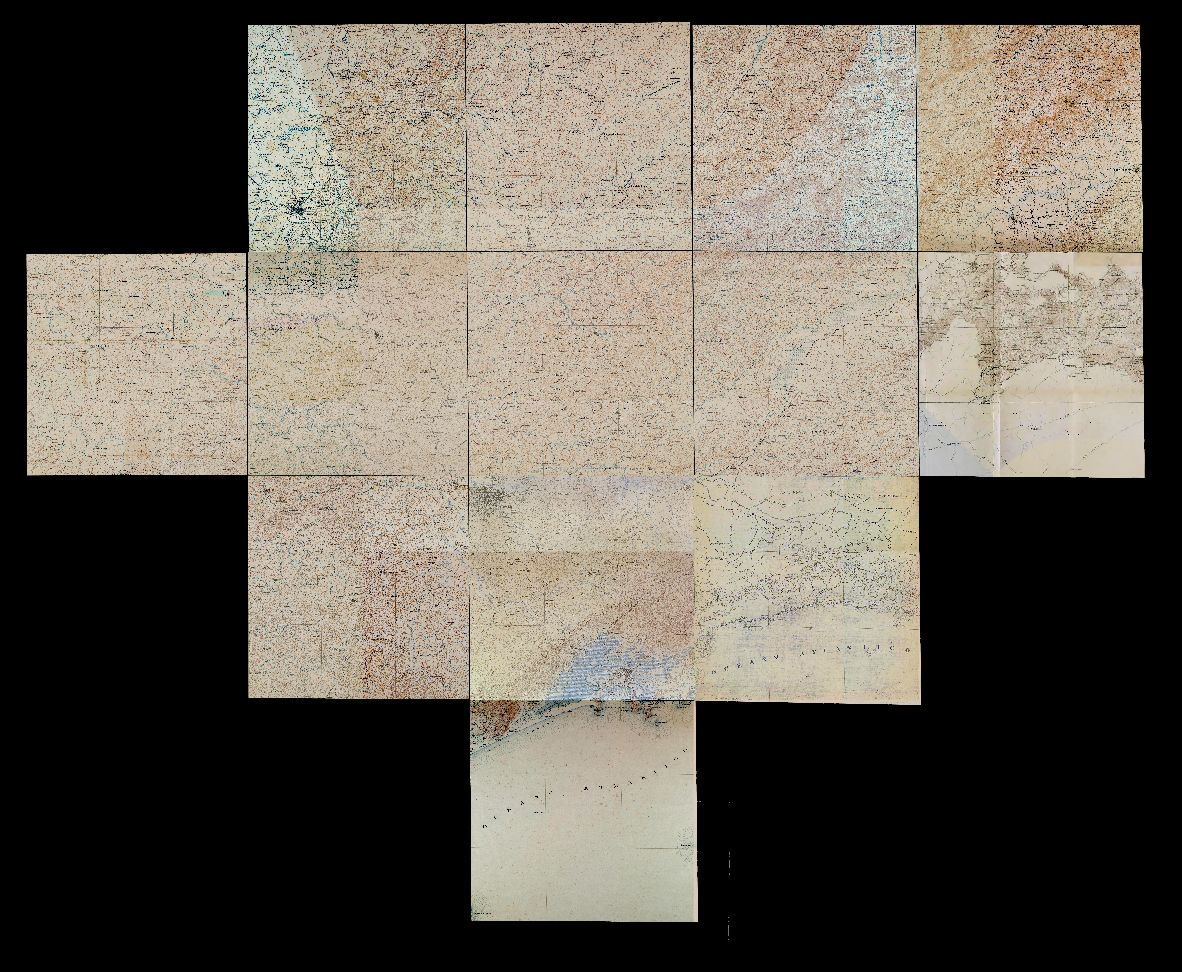
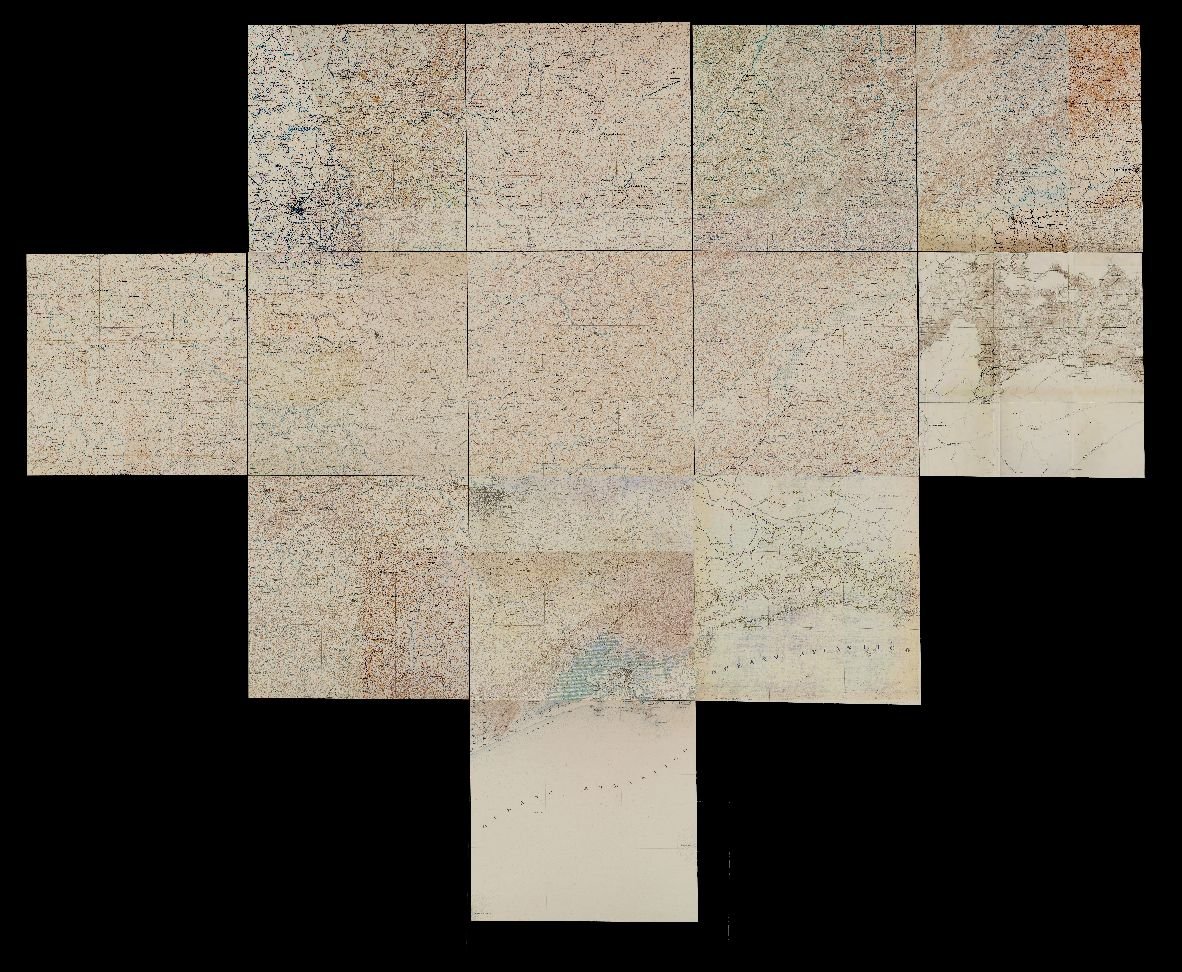
Uniformização das folhas: papel ancorado, grade que se ajusta às bordas, corte de realces
- O papel (p90) de cada região vai exatamente para o papel mediano do
  mosaico; o ganho de contraste é limitado (0,6–1,8) e vira só um
  deslocamento em folhas sem tinta mensurável — esticar amplificava manchas.
- Regiões escuras: no SARA (células reais da grade) recebem seu próprio
  deslocamento; no IGC (hachuras densas, legendas) herdam a folha ao redor.
- A grade do SARA agora se ajusta localmente: cada linha vai para o degrau
  de tom mais forte a ±14 px (só quando ele se destaca da textura da faixa),
  fechando o degrau entre faixas vizinhas — as folhas são coladas com
  pequenos deslocamentos.
- Passe final de corte de realces: manchas ainda mais claras que o alvo
  (pedaços colados com borda diagonal, p.ex. Campinas no IGC) descem para o
  papel alvo por um percentil local de ~1 km; áreas mais escuras ficam.

diff --git a/scripts/uniformize_sheets.py b/scripts/uniformize_sheets.py
@@ -30,6 +30,7 @@ from scipy import ndimage
 ROOT = Path(__file__).resolve().parent.parent
 MAPS = ROOT / "maps"
 SCALE = 8            # analysis is done on a 1/8 overview
+HILITE_WIN = 9       # highlight-clip window at 1/8 scale (~1 km on both maps)
 BLOCK = 512          # rows per output block
 
 SETS = {
@@ -37,10 +38,10 @@ SETS = {
     # measured on the source: pitch and phase of the column/row edges)
     "sara1930": {"src": "sara1930.tif", "nodata": "white",
                  "lattice": (299.2, 108.7, 275.7, 115.9), "feather": 2,
-                 "warp4326": False},
+                 "warp4326": False, "dark": "offset"},
     # IGC: 0 = nodata; irregular patchwork → segment by tone steps and gaps
     "igc": {"src": "folhas-rmsp.tif", "nodata": "zero", "lattice": None,
-            "feather": 1, "warp4326": True},
+            "feather": 1, "warp4326": True, "dark": "inherit"},
 }
 
 
@@ -79,22 +80,59 @@ def detected_walls(lum, valid, thr=4.0):
     return walls
 
 
-def lattice_walls(shape, lattice):
-    H, W = shape
+def lattice_walls(lum, valid, lattice, tol=14, thr=6.0):
+    """Walls on the sheet lattice, SNAPPED locally: sheets are pasted with
+    small offsets, so within each cell band the wall moves to the strongest
+    tone step found within ±tol px of the nominal line (else stays on it).
+    A short connector closes the step between neighbouring bands."""
+    H, W = lum.shape
     px, phx, py, phy = [v / SCALE for v in lattice]
+    xs = sorted({int(round(x)) for x in np.arange(phx, W, px) if 0 < round(x) < W})
+    ys = sorted({int(round(y)) for y in np.arange(phy, H, py) if 0 < round(y) < H})
+    xe = [0] + xs + [W]
+    ye = [0] + ys + [H]
     walls = np.zeros((H, W), bool)
-    x = phx
-    while x < W:
-        walls[:, int(round(x))] = True
-        x += px
-    y = phy
-    while y < H:
-        walls[int(round(y)), :] = True
-        y += py
+    vv = valid.astype(np.float32)
+    dr = np.abs(np.diff(lum, axis=0)) * (vv[:-1] * vv[1:])      # step r→r+1
+    dc = np.abs(np.diff(lum, axis=1)) * (vv[:, :-1] * vv[:, 1:])  # step c→c+1
+    cr = vv[:-1] * vv[1:]
+    cc = vv[:, :-1] * vv[:, 1:]
+
+    for y0 in ys:                                   # horizontal walls
+        r0, r1 = max(0, y0 - tol), min(H - 1, y0 + tol)
+        prof = np.add.reduceat(dr[r0:r1], xe[:-1], axis=1)
+        cnt = np.add.reduceat(cr[r0:r1], xe[:-1], axis=1)
+        prof = np.where(cnt > 0, prof / np.maximum(cnt, 1), 0)
+        best, val = prof.argmax(axis=0), prof.max(axis=0)
+        # a real sheet edge stands well above the band's own texture;
+        # otherwise (uniform sheet, plain noise) the wall stays on the lattice
+        snap = (val > thr) & (val > 2.5 * np.median(prof, axis=0))
+        prev = None
+        for j in range(len(xe) - 1):
+            y = r0 + int(best[j]) + 1 if snap[j] else y0
+            walls[y, xe[j]:xe[j + 1]] = True
+            if prev is not None and prev != y:
+                walls[min(prev, y):max(prev, y) + 1, xe[j]] = True
+            prev = y
+    for x0 in xs:                                   # vertical walls
+        c0, c1 = max(0, x0 - tol), min(W - 1, x0 + tol)
+        prof = np.add.reduceat(dc[:, c0:c1], ye[:-1], axis=0)
+        cnt = np.add.reduceat(cc[:, c0:c1], ye[:-1], axis=0)
+        prof = np.where(cnt > 0, prof / np.maximum(cnt, 1), 0)
+        best, val = prof.argmax(axis=1), prof.max(axis=1)
+        snap = (val > thr) & (val > 2.5 * np.median(prof, axis=1))
+        prev = None
+        for i in range(len(ye) - 1):
+            x = c0 + int(best[i]) + 1 if snap[i] else x0
+            walls[ye[i]:ye[i + 1], x] = True
+            if prev is not None and prev != x:
+                walls[ye[i], min(prev, x):max(prev, x) + 1] = True
+            prev = x
     return walls
 
 
-def region_params(rgb, valid, labels, nlab, lo_p=3, hi_p=90, min_px=150):
+def region_params(rgb, valid, labels, nlab, dark="inherit", lo_p=3, hi_p=90,
+                  min_px=40):
     """Per-region linear map (A, B) per channel: ink→target ink, paper→target
     paper. Regions with too few pixels get no params (NaN) and later inherit
     the nearest region's."""
@@ -112,29 +150,39 @@ def region_params(rgb, valid, labels, nlab, lo_p=3, hi_p=90, min_px=150):
         px = rgb[:, sl[0], sl[1]][:, m]              # (3, n)
         ink = np.percentile(px, lo_p, axis=1)
         paper = np.percentile(px, hi_p, axis=1)
-        # not a paper-and-ink sheet (legend strips, colour keys, title
-        # blocks): no bright paper or almost no dynamic range → inherit the
-        # neighbours' correction instead of a wild stretch
-        if paper.mean() < 90 or (paper - ink).mean() < 30:
+        # no bright paper at all. On a sheet lattice (SARA) that is a dark
+        # scan of a real sheet cell → it gets its own offset (dark="offset");
+        # on the IGC patchwork it is a densely hatched sub-area or a legend
+        # strip → inherit the neighbours' (the parent sheet's) correction.
+        if paper.mean() < 90 and dark != "offset":
             continue
         stats[lab] = (ink, paper, m.sum())
         inks.append(ink); papers.append(paper); areas.append(m.sum())
-    t_ink = np.median(np.array(inks), axis=0)
-    t_paper = np.median(np.array(papers), axis=0)
+    bright = [i for i, pp in enumerate(papers) if pp.mean() >= 90]
+    t_ink = np.median(np.array(inks)[bright], axis=0)
+    t_paper = np.median(np.array(papers)[bright], axis=0)
     for lab, (ink, paper, n) in stats.items():
-        span = np.maximum(paper - ink, 8.0)
-        a = np.clip((t_paper - t_ink) / span, 0.5, 2.5)
-        A[lab] = a
-        B[lab] = t_ink - a * ink
+        span = paper - ink
+        # paper-anchored map: the sheet's paper lands EXACTLY on the target
+        # (that is what makes the mosaic uniform); the contrast gain that
+        # would also put its ink on target is bounded, and a sheet with too
+        # little dynamic range (blank paper, muddy scan) gets an offset only —
+        # stretching it would just amplify stains and noise.
+        if span.mean() < 50 or paper.mean() < 90:
+            g = np.ones(3, np.float32)
+        else:
+            g = np.clip((t_paper - t_ink) / np.maximum(span, 8.0), 0.6, 1.8)
+        A[lab] = g
+        B[lab] = t_paper - g * paper
     print(f"    {len(stats)} regions with stats; target ink {t_ink.round(1)} "
           f"paper {t_paper.round(1)}")
-    return A, B
+    return A, B, t_paper
 
 
-def build_param_maps(rgb, valid, walls, feather):
+def build_param_maps(rgb, valid, walls, feather, dark):
     labels, nlab = ndimage.label(valid & ~walls)
     print(f"    {nlab} regions")
-    A, B = region_params(rgb, valid, labels, nlab)
+    A, B, t_paper = region_params(rgb, valid, labels, nlab, dark=dark)
     good = ~np.isnan(A[:, 0])
     good[0] = False
     lab_ok = np.where(good[labels], labels, 0)
@@ -148,6 +196,23 @@ def build_param_maps(rgb, valid, walls, feather):
         for c in range(3):
             Amap[..., c] = ndimage.uniform_filter(Amap[..., c], size)
             Bmap[..., c] = ndimage.uniform_filter(Bmap[..., c], size)
+    # Second pass — highlight clip. Pieces pasted with a diagonal edge, or
+    # any patch whose paper is still brighter than the target after the
+    # per-region map (the segmentation is axis-aligned), get scaled down to
+    # the target paper by a LOCAL 90th percentile (~1 km window). Only the
+    # brighter-than-target direction is corrected, so hatched hills, forests
+    # and other legitimately darker areas are untouched.
+    corr = np.empty_like(Amap)
+    for c in range(3):
+        corr[..., c] = np.where(valid, Amap[..., c] * rgb[c] + Bmap[..., c], t_paper[c])
+    S = np.ones_like(Amap)
+    for c in range(3):
+        local = ndimage.percentile_filter(corr[..., c], 90, size=HILITE_WIN)
+        S[..., c] = np.clip(t_paper[c] / np.maximum(local, 1.0), 0.5, 1.0)
+        S[..., c] = ndimage.uniform_filter(S[..., c], 3)
+    Amap *= S
+    Bmap *= S
+    print(f"    highlight clip: {(S < 0.98).any(axis=2).mean()*100:.1f}% of pixels")
     return Amap, Bmap, labels
 
 
@@ -169,7 +234,7 @@ def upsample_rows(m, r0, r1, W):
     return out
 
 
-def uniformize(src_path, dst_path, nodata, lattice, feather):
+def uniformize(src_path, dst_path, nodata, lattice, feather, dark):
     with rasterio.open(src_path) as src:
         H, W = src.height, src.width
         h8, w8 = H // SCALE, W // SCALE
@@ -177,9 +242,9 @@ def uniformize(src_path, dst_path, nodata, lattice, feather):
         rgb8 = src.read([1, 2, 3], out_shape=(3, h8, w8)).astype(np.float32)
         valid8 = valid_mask(rgb8, nodata)
         lum8 = rgb8.mean(axis=0)
-        walls = lattice_walls(lum8.shape, lattice) if lattice else \
+        walls = lattice_walls(lum8, valid8, lattice) if lattice else \
             detected_walls(lum8, valid8)
-        Amap, Bmap, labels = build_param_maps(rgb8, valid8, walls, feather)
+        Amap, Bmap, labels = build_param_maps(rgb8, valid8, walls, feather, dark)
 
         prof = src.profile.copy()
         prof.update(count=3, dtype="uint8", tiled=True, blockxsize=512,
@@ -227,9 +292,11 @@ def main():
                      "-co", "TILED=YES", "-co", "COMPRESS=DEFLATE",
                      "-co", "BIGTIFF=YES", "-b", "1", "-b", "2", "-b", "3",
                      "-srcnodata", "0", "-dstnodata", "0", src, w])
-                uniformize(w, dst, cfg["nodata"], cfg["lattice"], cfg["feather"])
+                uniformize(w, dst, cfg["nodata"], cfg["lattice"], cfg["feather"],
+                           cfg["dark"])
         else:
-            uniformize(src, dst, cfg["nodata"], cfg["lattice"], cfg["feather"])
+            uniformize(src, dst, cfg["nodata"], cfg["lattice"], cfg["feather"],
+                       cfg["dark"])
 
 
 if __name__ == "__main__":

diff --git a/README.md b/README.md
@@ -106,10 +106,20 @@ python3 scripts/build_tiles.py sara1930   # one of: igc, sara1930
 Needs the GeoTIFFs in `maps/` (`folhas-rmsp.tif`, `sara1930.tif`), GDAL
 with the WEBP driver, rasterio, SciPy. `uniformize_sheets.py` evens out the
 per-sheet colour and brightness of the scans: SARA is cut along its
-500 m sheet lattice (pitch/phase measured on the source, in `SETS`), the
-IGC patchwork is segmented by tone steps and nodata gaps; each region's
-paper (p90) and ink (p3) are mapped linearly onto the mosaic-wide medians,
-with the parameters feathered over a few pixels at region edges. Output is
+500 m sheet lattice (pitch/phase measured on the source, in `SETS`; each
+line snaps to the strongest local tone step within ±14 px of the analysis
+grid, since sheets are pasted with small offsets), the IGC patchwork is
+segmented by tone steps and nodata gaps; each region's
+paper (p90) is anchored exactly onto the mosaic-wide median paper, with a
+bounded contrast gain that also pulls its ink (p3) towards the median ink
+(an offset only for blank or muddy sheets). Regions with no bright paper at
+all get an offset of their own on SARA (`dark: "offset"`, they are real
+sheet cells) and inherit the surrounding sheet's correction on the IGC
+(`dark: "inherit"`, they are hatched sub-areas or legend strips).
+Parameters are feathered over a few pixels at region edges, and a final
+highlight-clip pass scales down any patch whose local paper (1 km window,
+90th percentile) is still brighter than the target — pieces pasted with a
+diagonal edge, for instance — leaving darker areas untouched. Output is
 git-ignored but must be deployed with the rest of `site/`.
 
 ## Preview and deploy
